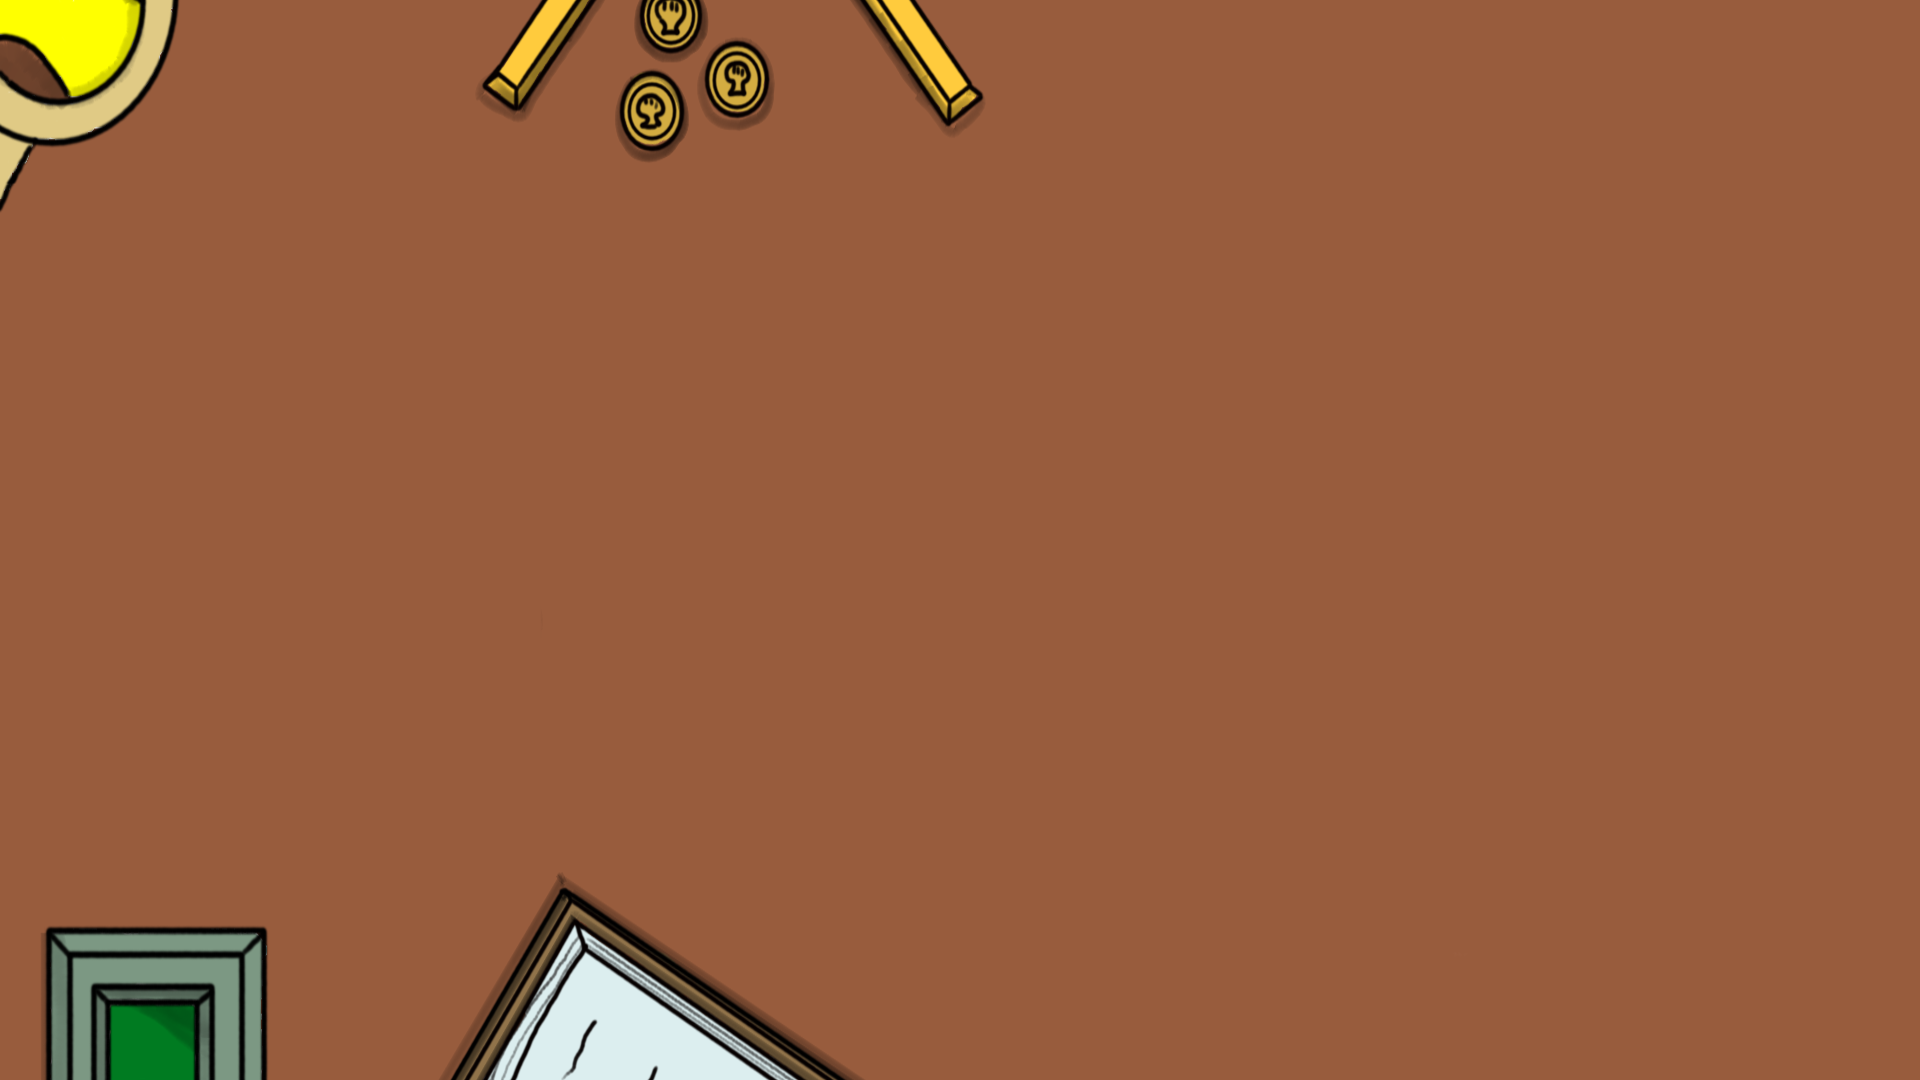
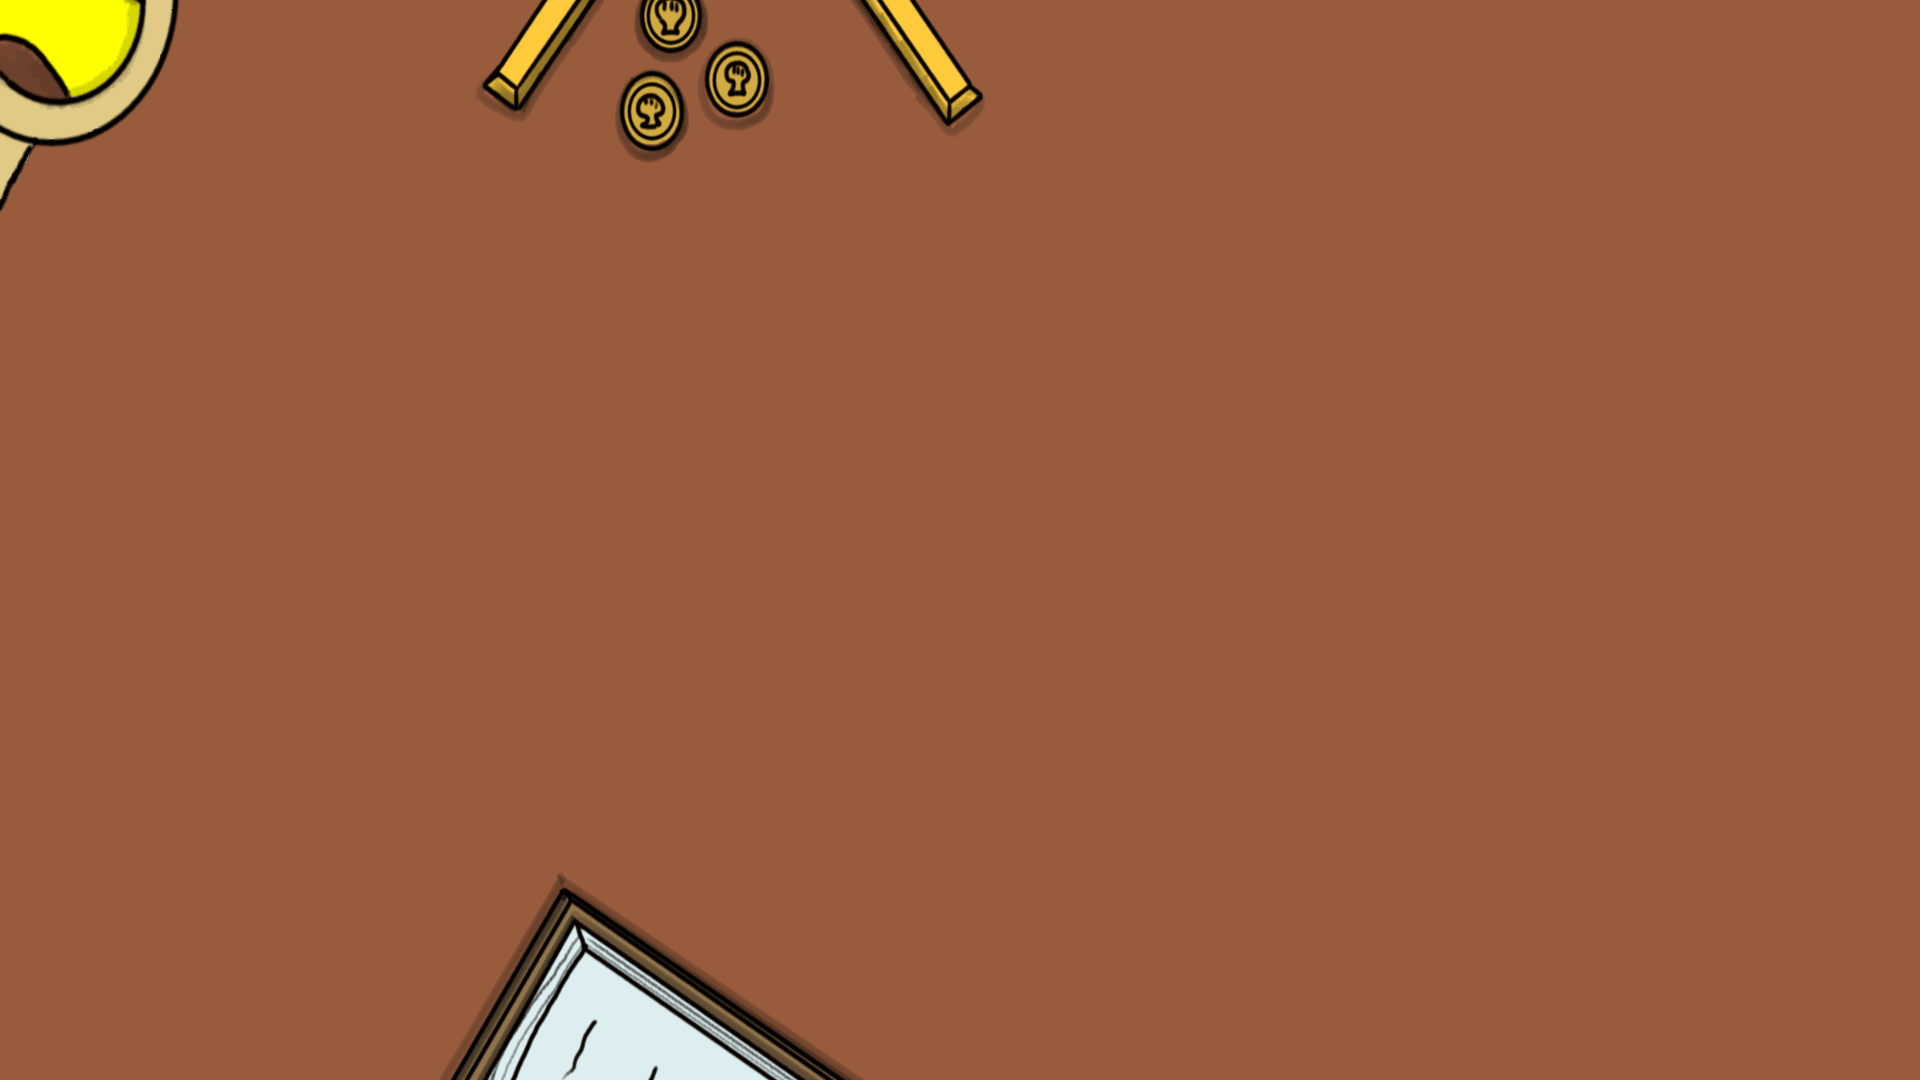
Botoncín para volver al menu

Changed region(s): [[0.0, 0.8556, 0.1562, 1.0]]

diff --git a/FuMonoStudios/Game/src/scenes/FinalsInfoScene.cpp b/FuMonoStudios/Game/src/scenes/FinalsInfoScene.cpp
@@ -1,6 +1,7 @@
 #include "FinalsInfoScene.h"
 #include <sistemas/ComonObjectsFactory.h>
 #include "entities/Final.h"
+#include <architecture/Game.h>
 
 FinalsInfoScene::FinalsInfoScene()
 {
@@ -67,7 +68,6 @@ FinalsInfoScene::FinalsInfoScene()
             final_->setActive(true);
             backButton->setActive(true);
         };
-        auto textColor = build_sdlcolor(0xffffffff);
 
         auto button = factory_->createTextuButton(Vector2D(900, 300 + 100* i), "Final con Felicidad " + gD().felicidadToString((Felicidad)(i + 2)), 80, callback, "click", textColor);
         factory_->addHoverColorMod(button);
@@ -85,7 +85,6 @@ FinalsInfoScene::FinalsInfoScene()
             final_->setActive(true);
             backButton->setActive(true);
         };
-        auto textColor = build_sdlcolor(0xffffffff);
 
         auto button = factory_->createTextuButton(Vector2D(900, 700 + 100 * i), "Final con Felicidad " + gD().felicidadToString((Felicidad)(i + 7)), 80, callback, "click", textColor);
         factory_->addHoverColorMod(button);
@@ -93,11 +92,20 @@ FinalsInfoScene::FinalsInfoScene()
         finalButtonsAdicionales_.push_back(button);
     }
 
+    // Boton para volver al menu
+    CallbackClickeable callbackMenu = [this]() {
+        gm().requestChangeScene(ecs::sc::FINALS_INFO_SCENE , ecs::sc::MENU_SCENE);
+    };
+
+    auto menuButton = factory_->createTextuButton(Vector2D(120, 970), "Menu", 80, callbackMenu, "click", textColor);
+    factory_->addHoverColorMod(menuButton);
+
     // Start Confi
     setActiveButtons(false, finalButtons_); // desactiva los finalButtons_
     setActiveButtons(false, finalButtonsAdicionales_);
     setActiveButtons(true, npcButtons_); // activa los npcButtons_
     backButton->setActive(false);
+    menuButton->setActive(true);
 }
 
 void FinalsInfoScene::init()
